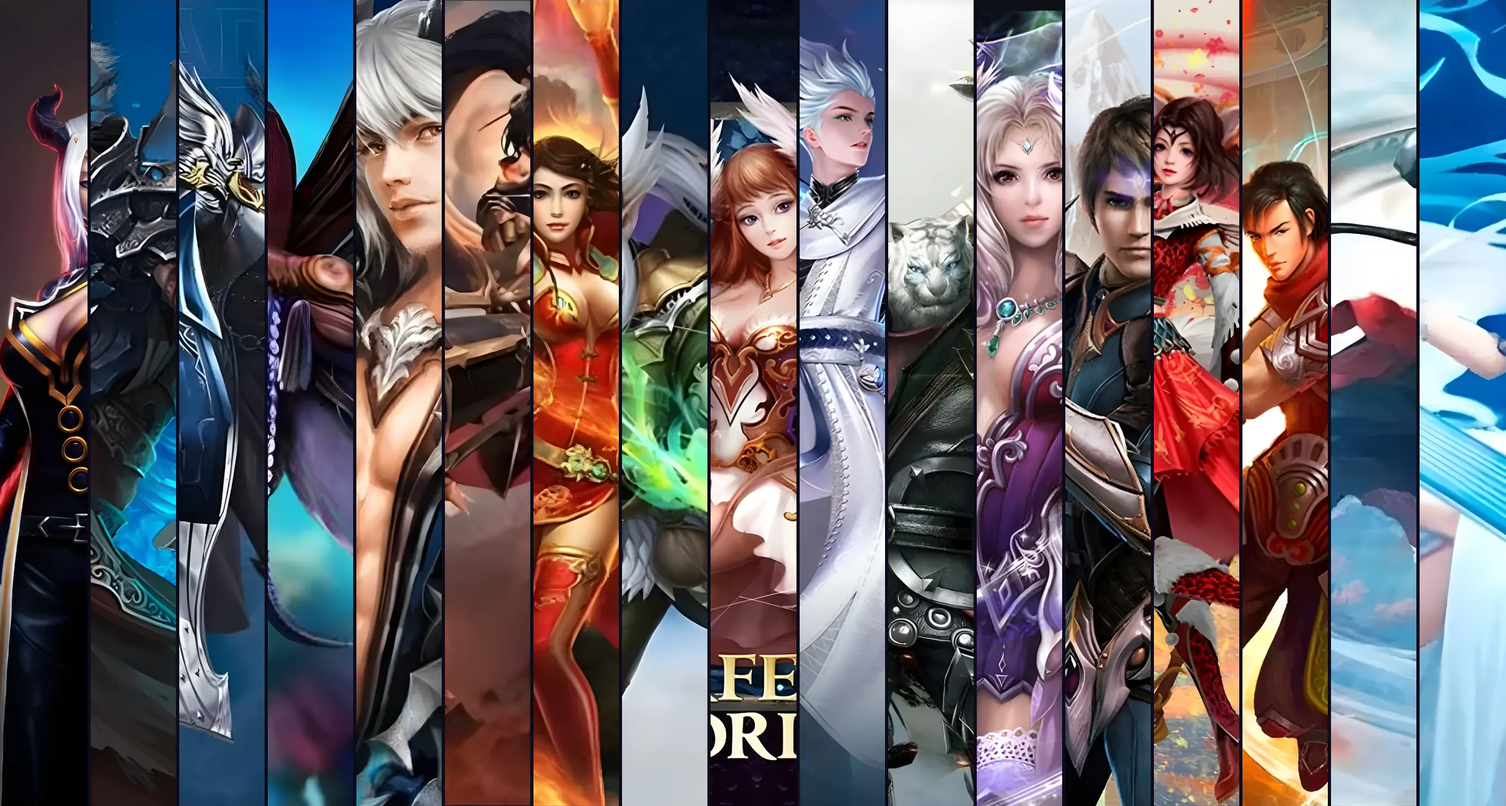
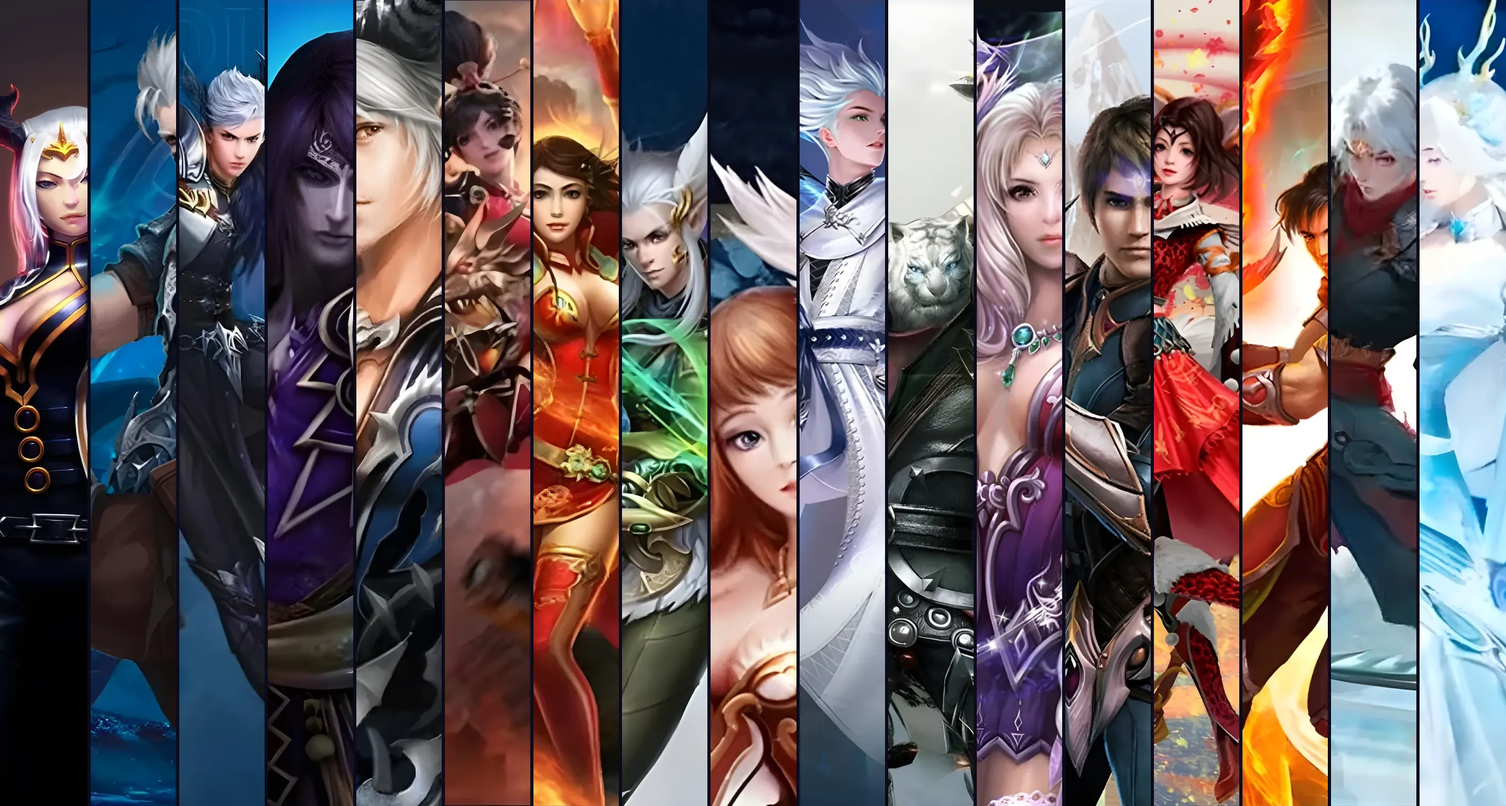
A capa aparava o logotipo e enquadra cada classe no rosto
Tres correccoes, as tres apontadas pelo dono a olhar para o ecra.

**O logotipo da Perfect World estava na capa.** Duas das dezassete
trazem-no pintado na arte: o sacerdote inteiro — de 13% a 73% da largura e
de 77% a 95% da altura — e o mistico com o topo de um `P` no canto. Uma
marca do editor na primeira dobra contradiz, sem uma palavra, o que o site
diz em todas as paginas sobre ser projecto de fa sem vinculo. Aparam-se
pelo fundo: o que fica e reescalado para encher a faixa, portanto o
sacerdote passa a 1,30x e o mistico a 1,09x — ainda abaixo do 1,48x que o
heroi tinha antes disto existir.

**Cada tira passa a ser cortada no rosto e nao no meio da arte.** As
dezassete nao tem a figura centrada, e o meio deixava o Bardo, o Ceifador
e o Mercenario so com cenario. `ROSTO_EM` tem as dezassete posicoes lidas
a mao de uma grelha de 10% — do mesmo modo que as linhas dos Registos
foram contadas de fotografias da janela do jogo, e pela mesma razao: o
automatico chegou perto e nao chegou la.

O automatico fica como rede para arte nova, e vale guardar onde falha.
Procurar pele no topo e tomar a janela mais densa acerta em doze das
dezassete; nas outras cinco a maior mancha de pele nao e uma cara — e uma
perna do Mago, um braco da Atiradora, o fundo cor de fogo do Guerreiro,
que a regra de pele em RGB acende na mesma. Nenhum limiar separa isso.

**O Barbaro e o tigre**, confirmado pelo dono. Aquela arte e toda
[…]

diff --git a/test/portas/heroi_da_raiz_test.dart b/test/portas/heroi_da_raiz_test.dart
@@ -119,7 +119,13 @@ void main() {
       ),
     );
     expect(arte.fit, BoxFit.cover);
-    expect(arte.alignment, const Alignment(0.52, -0.6));
+    // **A capa encosta à esquerda e o `y` da maquete fica.** A 1420 px ela
+    // encaixa exacta — 2840×1520 a meia escala é a caixa inteira — portanto
+    // aqui o `x` não corta nada. Só pesa no estreito, onde o `cover` corta
+    // pelos lados: com o 0,52 da maquete o telemóvel mostrava as tiras do
+    // meio, que `capa.py` ordenou para serem as claras, e a manchete ficava
+    // a competir com elas.
+    expect(arte.alignment, const Alignment(-1, -0.6));
   });
 
   test('a altura é min(86vh, 760), a medida da maquete', () {

diff --git a/tool/artes/capa.py b/tool/artes/capa.py
@@ -44,6 +44,124 @@ LARGURA, ALTURA = 2840, 1520
 FIO = 6
 QUALIDADE = 78
 
+# **Duas das dezassete trazem o logótipo da Perfect World pintado na arte**, e
+# ele não pode ir para a capa: este site diz em todas as páginas que é projecto
+# de fã sem vínculo, e uma marca do editor na primeira dobra contradiz isso
+# sem uma palavra.
+#
+# Medido a 10/11/2026 sobre os ficheiros: no sacerdote o `PERFECT WORLD` ocupa
+# de 13% a 73% da largura e de 77% a 95% da altura — larga de mais para a
+# evitar escolhendo outra fatia, porque a tira leva ~16% da largura e o que
+# sobra limpo é a borda. No místico aparece só o topo de um `P` no canto
+# inferior esquerdo.
+#
+# Aparar pelo fundo é o que custa menos: o que fica é reescalado para encher a
+# faixa, portanto o sacerdote passa a 1,30× e o místico a 1,09×, contra os
+# 1,06× das outras quinze. Continua tudo abaixo do 1,48× que o herói tinha
+# antes de isto existir.
+APARAR_EM_BAIXO = {'sacerdote': 0.50, 'mistico': 0.08}
+
+# **Onde está o rosto em cada arte, em fracção da largura.** Lido à mão de uma
+# grelha de 10% sobre o terço de cima das dezassete, a 10/11/2026 — do mesmo
+# modo que as linhas dos Registos foram contadas de fotografias da janela do
+# jogo, e pela mesma razão: a medição automática chegou perto e não chegou lá.
+#
+# O que ela faz e onde falha: procurar pele no topo e tomar a janela mais
+# densa acerta em doze das dezassete, e nas outras cinco a maior mancha de
+# pele não é uma cara — é uma perna do Mago, um braço da Atiradora, o fundo
+# cor de fogo do Guerreiro. Nenhum limiar separa isso, porque a regra de pele
+# em RGB não sabe o que é uma cara.
+#
+# A tabela manda e o automático é a rede: uma classe que entre amanhã sem
+# linha aqui continua a ser enquadrada sozinha, em vez de cair no meio — que
+# era o palpite que deixava o Bardo, o Ceifador e o Mercenário só com
+# cenário, e foi o que o dono viu.
+ROSTO_EM = {
+    'andarilho': 0.47,
+    'arcano': 0.50,
+    'arqueiro': 0.37,
+    'atiradora': 0.63,
+    # **O Bárbaro não tem rosto nesta arte** — é todo armadura, e varrer a
+    # largura inteira não encontra cara nenhuma. Fica no tigre branco, que é a
+    # assinatura da classe e lê-se tão bem como um rosto.
+    'barbaro': 0.50,
+    'bardo': 0.88,
+    'ceifador': 0.80,
+    'espiritualista': 0.12,
+    'feiticeira': 0.50,
+    'guerreiro': 0.40,
+    'mago': 0.50,
+    'mercenario': 0.18,
+    'mistico': 0.47,
+    'paladino': 0.62,
+    'retalhador': 0.62,
+    'sacerdote': 0.50,
+    'tormentador': 0.58,
+}
+
+
+def _foco(cena, janela):
+    """Onde cortar a tira de [janela] píxeis de largura, em píxeis de origem.
+
+    **A tira leva ~16% da largura da arte, e cravá-la no meio falhava.** As
+    dezassete não têm a figura centrada: o Bardo, o Ceifador e o Mercenário
+    saíam só com cenário, que foi o que o dono viu — *«tem alguns que não se
+    vê nada»*.
+
+    Procura-se pele no **terço de cima**, que é onde um rosto está nestas
+    artes, e escolhe-se a janela que apanha mais. **A janela mais densa e não
+    o centro de massa**, e a diferença não é subtil: a regra de pele em RGB
+    também acende em fogo e em couro, portanto o Mago mede 59% de «pele» que
+    é fundo laranja e o Guerreiro 73%. Uma média é puxada por essa mancha
+    para longe da cara; a janela mais densa ignora-a, porque o pico continua a
+    estar onde o rosto está.
+
+    Sem pele nenhuma que chegue, cai-se na energia de borda — onde o desenho
+    tem mais detalhe. Nunca no meio por omissão: o meio é precisamente o
+    palpite que não funcionou.
+    """
+    W, H = cena.size
+    topo = round(H * 0.34)
+    px = cena.load()
+    passo = 3
+
+    coluna = [0] * W
+    peso = 0
+    for y in range(0, topo, passo):
+        for x in range(0, W, passo):
+            r, g, b = px[x, y]
+            if (
+                r > 95
+                and g > 40
+                and b > 20
+                and max(r, g, b) - min(r, g, b) > 15
+                and abs(r - g) > 15
+                and r > g
+                and r > b
+            ):
+                coluna[x] += 1
+                peso += 1
+
+    amostras = len(range(0, topo, passo)) * len(range(0, W, passo))
+    # 0,4% é o mínimo para um rosto contar como rosto; abaixo disso é ruído de
+    # madeira ou de couro, e há arte com a cara tapada por elmo.
+    if peso <= amostras * 0.004:
+        cinza = cena.convert('L')
+        g = cinza.load()
+        coluna = [0] * W
+        for y in range(1, topo, 2):
+            for x in range(1, W, 2):
+                coluna[x] += abs(g[x, y] - g[x - 1, y]) + abs(g[x, y] - g[x, y - 1])
+
+    janela = min(janela, W)
+    soma = sum(coluna[:janela])
+    melhor, melhor_x = soma, 0
+    for x in range(1, W - janela + 1):
+        soma += coluna[x + janela - 1] - coluna[x - 1]
+        if soma > melhor:
+            melhor, melhor_x = soma, x
+    return melhor_x
+
 
 def _luz(caminho):
     """A luminosidade média da arte, de 0 a 255."""
@@ -72,20 +190,41 @@ def montar():
 
     for i, f in enumerate(fs):
         cena = Image.open(f).convert('RGB')
+
+        apara = APARAR_EM_BAIXO.get(os.path.basename(f)[:-5], 0.0)
+        if apara:
+            cena = cena.crop((0, 0, cena.width, round(cena.height * (1 - apara))))
+
         # A altura manda: a arte enche os 1520 e a largura sai do que calhar.
         # É este o passo que faz a escala ser 1,06x em vez de 1,48x.
         escala = ALTURA / cena.height
         g = cena.resize((round(cena.width * escala), ALTURA), Image.LANCZOS)
 
         x0, x1 = round(i * larg), round((i + 1) * larg)
-        meio = g.width // 2
-        corte = meio - (x1 - x0) // 2
-        tela.paste(g.crop((corte, 0, corte + (x1 - x0), ALTURA)), (x0, 0))
+        lw = x1 - x0
+        nome = os.path.basename(f)[:-5]
+
+        rosto = ROSTO_EM.get(nome)
+        if rosto is None:
+            # O foco é calculado na arte de origem e convertido, para a conta
+            # não depender do tamanho a que a tira foi reescalada.
+            corte = round(_foco(cena, round(lw / escala)) * escala)
+        else:
+            corte = round(rosto * g.width) - lw // 2
+        corte = min(max(0, corte), g.width - lw)
+        tela.paste(g.crop((corte, 0, corte + lw, ALTURA)), (x0, 0))
 
     d = ImageDraw.Draw(tela)
     for i in range(1, len(fs)):
         x = round(i * larg)
         d.line([(x, 0), (x, ALTURA)], fill=NOITE, width=FIO)
+
+    for nome in APARAR_EM_BAIXO:
+        if not os.path.exists(os.path.join(FONTE, f'{nome}.webp')):
+            raise SystemExit(
+                f'{nome} está na lista de aparar e não existe em {FONTE} — '
+                'ou mudou de nome, ou o logótipo voltou sem ninguém dar por ele'
+            )
 
     tela.save(DESTINO, 'WEBP', quality=QUALIDADE, method=6)
     print(
